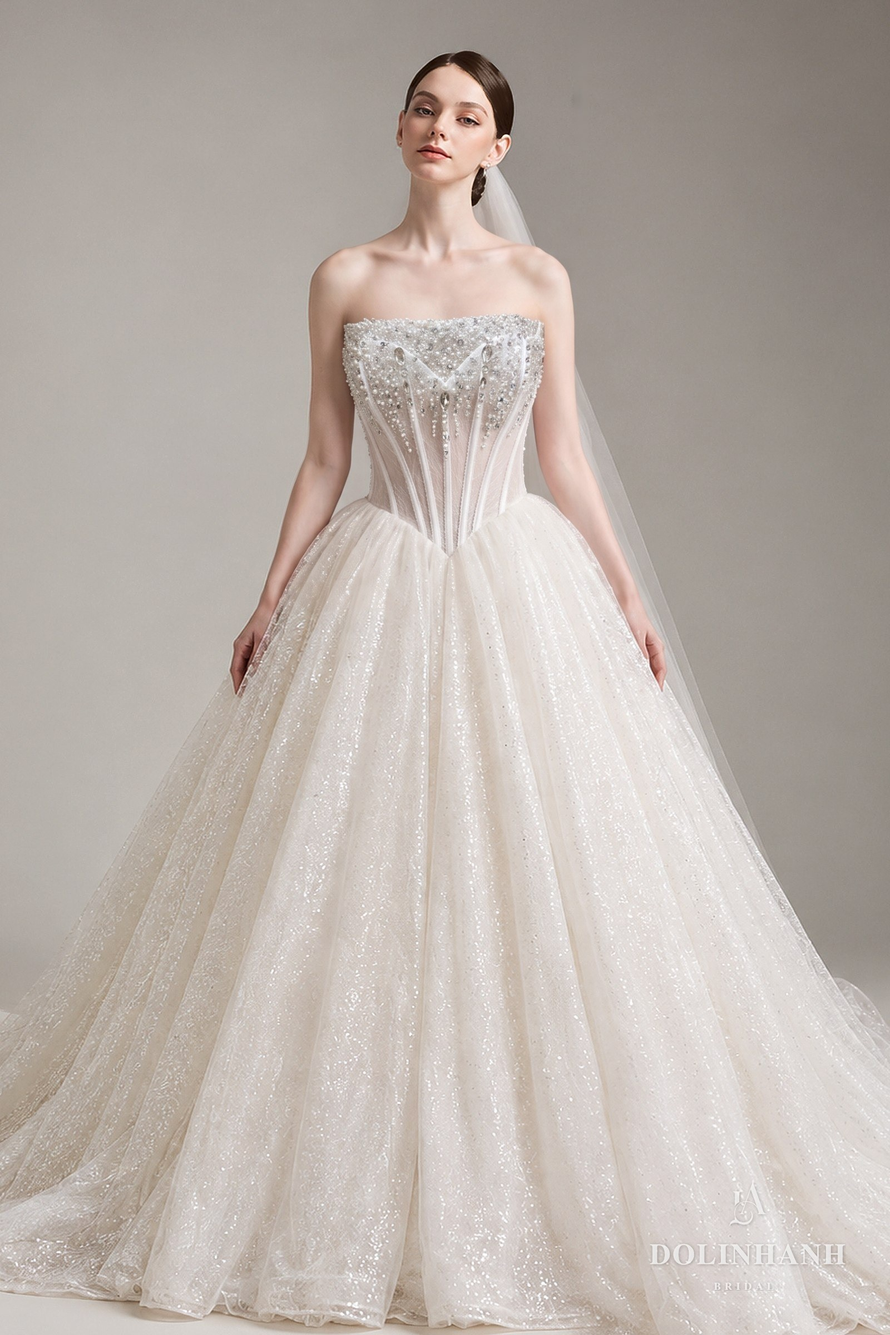
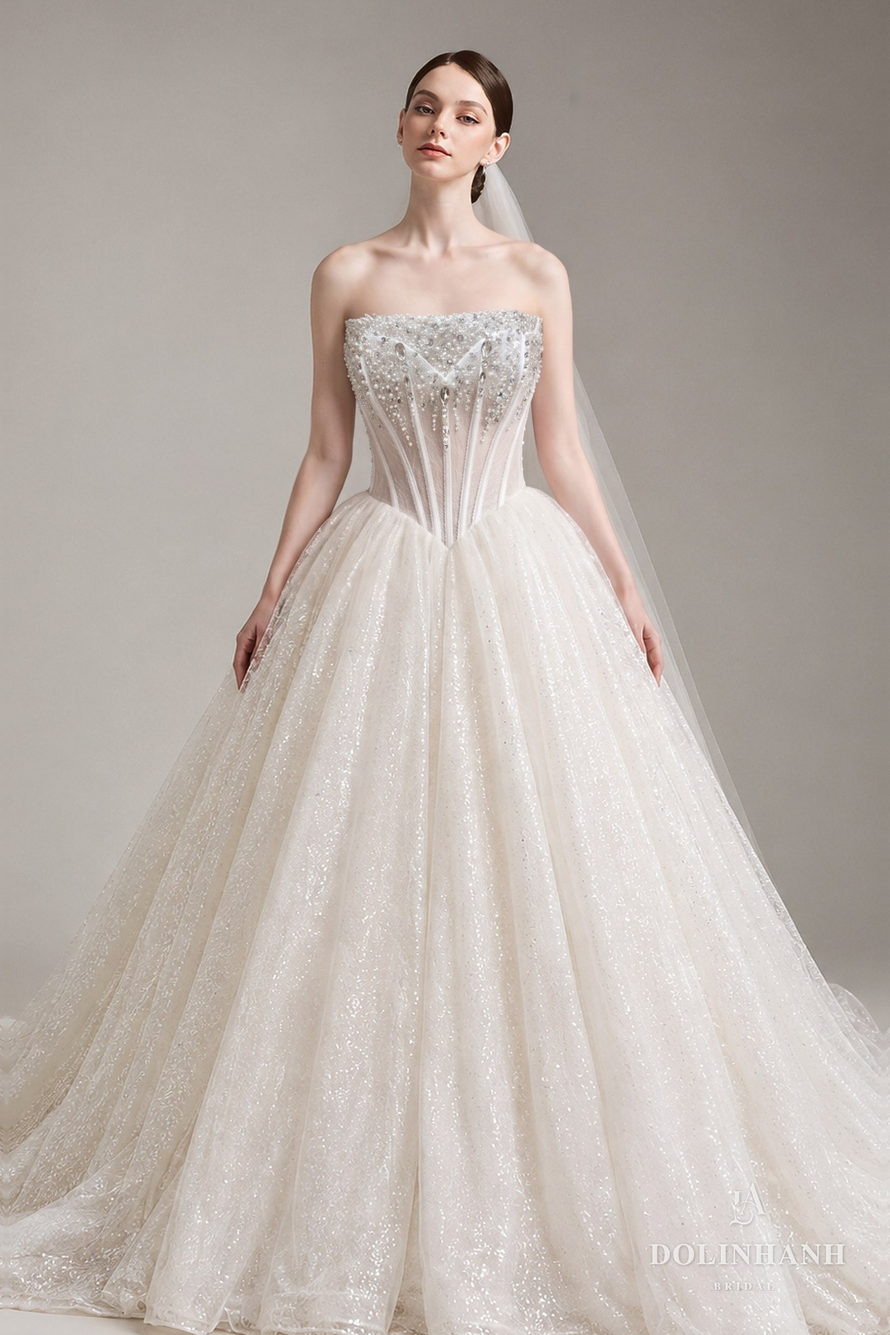
V144: MS 191 dài chân thêm 5% (chị Linh chốt 18/10)

diff --git a/bo-suu-tap.html b/bo-suu-tap.html
@@ -1585,7 +1585,7 @@ src="https://www.facebook.com/tr?id=1358640082651240&ev=PageView&noscript=1"
         </figure>
         <figure data-dang="ballgown" data-mood="timeless" data-coso="hcm">
           <div class="sl-khung">
-            <div class="sl" data-img="anh/vay/ms191/01.jpg?v=2"></div>
+            <div class="sl" data-img="anh/vay/ms191/01.jpg?v=3"></div>
           </div>
           <figcaption><span class="kind" data-en="Dolinhanh Bridal" data-zh="Dolinhanh Bridal">Dolinhanh Bridal</span><span class="nm">MS 191</span><span class="de" data-en="Lace corset, full skirt" data-zh="蕾丝鱼骨胸衣，蓬松裙摆">Corset ren, tùng xoè</span><span class="gia">US$2,280</span></figcaption>
         </figure>
